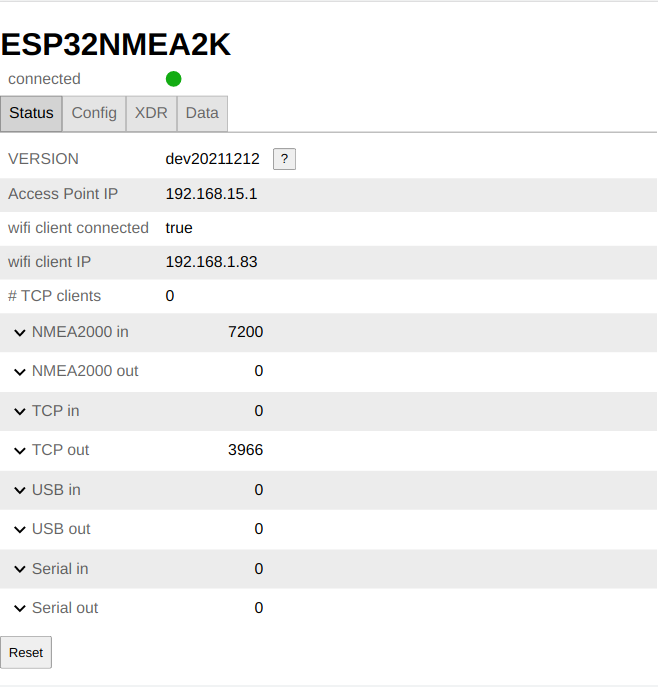
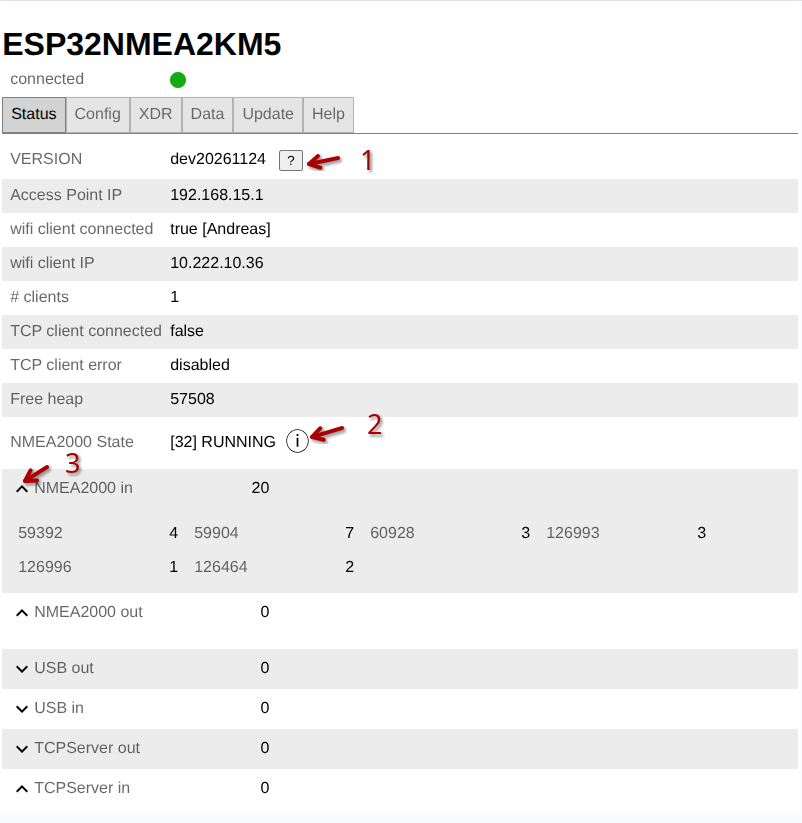
doc: UI description

diff --git a/doc/WebUi.md b/doc/WebUi.md
@@ -1,0 +1,134 @@
+# The Web User Interface
+
+## Connecting
+
+After flushing the device it will create a wifi access point when it starts up. 
+
+Connect to it (name: ESP32NMEA2K, password: esp32nmea2k).
+
+Afterwards use a Bonjour Browser( [Android](https://play.google.com/store/apps/details?id=de.wellenvogel.bonjourbrowser), [IOS](https://apps.apple.com/de/app/bonjour-search-for-http-web-in-wi-fi/id1097517829)), the address ESP32NMEA2k.local or the ip address 192.168.15.1 to connect with your browser.
+
+Once being connected you can change the system name (= name of the wifi network) and the IP and other parameters of the access point. As you can also change the passwords be careful to notice them as otherwise you would need to factory reset the device (very long button press until the led goes red).
+
+If you are able to connect to the USB port it will print out the important paremeters on startup.
+
+
+## Tabs
+When connecting to the device with a browser you will get an UI with various tabs to access the device functions.
+![Web1](status1.png)
+
+### Status
+
+The first visible tab will present you the status information for the device.
+The row with "connected" will show green if the UI is connected to the device and will turn red if not (any more).
+
+Beside some system and connection information you will see the send and receive message counters for all available interface.
+
+Each of them can be expanded (3) to provide you more details. For NMEA2000 channels the number of send and received PGNs is shown, for NMEA0183 channels the number for the various sentences.
+
+Clickibg on the question mark beside the version (1) will give you the list of converted NMEA0183 sentences and NMEA2000 PGNs.
+
+Clicking (2) will provide you a list of detecte NMEA2000 devices on your bus (including this device itself).
+You can expand the device information by clicking it.
+
+**Hint**: Populating this list can take some time after startup (> 1 minute) as we have to wait for some announcement messages from the devices.
+
+## Config
+
+![Web Config](web-config.png)
+
+Clicking the "Config" Tab will bring up the device configuration.
+
+You can expand each section using the small arrow buttons. Each of the input fields has a help information available to explain the meaning.
+
+After making changes you need to svae them and restart the device using "Save&Restart". If you have been connected to the device wifi it could happen that your device that runs the browser will just switch over to a different network. Therefore you will see a warning dialog about this fact.
+You can always check the connected status to verify that you are still attached to the right network.
+
+When klicking "Save&Restart" a couple of checks will be executed and an error will be shown if there are invalid settings.
+
+For storing the changes the system will ask you for an admin password. Initially this is set to 'esp32admin' and it can be changed in the "system" section. The admin password dialog will allow you to store the password in your browser. Please consider that the password will be stored in cleartext in your browser data - so only do this on some personal device.
+
+You can also perform import and export of your settings (as a json file), restting to factory settings - or just reloading from the device (this way reverting all changes before Save&Restart).
+
+In the "nmea2000" section you can set a preferred NMEA2000 node id. When thi is set to a value != -1 the device will try to claim this address. If another device on the bus already has this address the device will select a different one. The device address is shown at the status tab in the 
+
+`NMEA2220 state [32] Running`
+
+Will show a node address of 32 (the initial defualt).
+
+### Filters
+
+The gateway supports filters at all inputs and outputs and also at the converter (to control which data passes from NMEA0183 to NMEA2000 and reverse).
+
+#### NMEA0183
+For NMEA0183 the filter looks like 
+![NMEA0183 filter](nmea-filter.png)
+
+You can decice if you will allow AIS data (aison,aisoff) and if the provided filter should be a whitelist or blacklist.
+
+In the filter list you can provide:
+
+* a 3 character NMEA sentence identifier (like RMC)
+* a 2 character Talker Id (like GX)
+* a 5 character talker + sentence (like GPAPB)
+
+The are checked in this priority. Multiple entries can be combined with a ,.
+
+In the example the filter means: drop all messages from talker "GX", drop all "RMB" sentences and drop "GPAPB" records. All other messages will be pass (as aison is selected and the filter is a blacklist).
+
+Seasmart sentences (`$PCDIN`) are not handled by this filter but by PGN filters.
+
+#### PGN
+
+For NMEA2000 you can filter by PGNs.
+
+![PGN Filter](pgn-filter.png)
+
+You can provide a list of pgns seperated by `,` . And you can decide if the filter should be a blacklist or a whitelist.
+
+The example means: Drop all PGNs 129025.
+
+**Remark**: If you select "whitelist" for a filter and leave the list empty this means to drop all messages.
+
+### Seasmart
+
+IP based connections support sending and receiving [seasmart](https://open-boat-projects.org/de/seasmart/) data. This allows you to forward the complete NMEA2000 traffic via IP. The seasmart data just encapsulates the NMEA2000 messages in an ascii format without any conversion. Using seasmart you can connect any capable device directly to the NMEA2000 network via IP.
+The channels by default will always receive seasmart messages, sending has to be enabled explicitly. Additionally you have PGN filters at the channels so that you e.g. still can prevent receiving seasmart by an empty whitelist filter.
+
+### Actisense
+
+For the USB channel you can configure the mode to be either NMEA0183 or Actisense. If you select Actisense no log information is transmitted on this channel.
+
+## XDR
+
+On the XDR Tab you can configure the [XDR translations](XdrMappings.md).
+
+## Data
+
+On the data tab you will see current values of the received data **that has been passing the converter**.
+
+![Data](web-data.png)
+
+Normally you will see both received data and data that could be received (but still has not been).
+
+In the configuration you can limit the display to only received data.
+
+Beside the data that is directly known by the gateway and will be shown once it was passing the converter all XDR data will also been shown on this page.
+
+The values have a timeout (can be set at the "Config" tab, section "converter") so that they will disappear if not being received within this timeout. 
+
+Each data value will show a caption, the value, the source that received the latest value and a unit. All not directly know data values (like XDR data) are shown in their SI base units. 
+
+As the display is mainly intended for diagnosis purposes there is no sophisticated configuration for the display. You can easily use an app for more detailed and configurable display (like [AvNav](https://www.wellenvogel.net/software/avnav/newDoc/latest/en/index.html)).
+
+## Update
+
+On this tab you can [update the software](../Readme.md#update).
+
+## Help
+
+This Tab links to this documentation.
+
+## Other tabs
+
+User software that uses the gateway core can extend the UI by adding own tabs - see [Extending the software](../lib/exampletask/Readme.md).

diff --git a/Readme.md b/Readme.md
@@ -35,7 +35,7 @@ What is included
 * a NMEA0183 RS485 to NMEA2000 gateway
 * a Wifi (NMEA0183) to NMEA2000 gateway
 * an USB (NMEA0183) to NMEA2000 gateway
-* a WEB UI to configure the gateway and to show the data that has been received
+* a [WEB UI](doc/WebUi.md) to configure the gateway and to show the data that has been received
 * a USB Actisense to NMEA2000 gateway
 * a NMEA2000 to USB Actisense gateway
 * starting with 201311xx some [I2C Sensors](doc/Sensors.md)
@@ -66,8 +66,7 @@ They are devided into binaries for an initial flash (xxx-all.bin) and binaries f
 
 For other Hardware refer to the [online build service](doc/BuildService.md).
 
-Initial Flash
-*************
+### Initial Flash
 
 __Browser__
 
@@ -128,8 +127,7 @@ Some Anti Virus Software may (accidently) tag this as infected. In this case you
 *  Afterwards download [flashtool.pyz](../../raw/master/tools/flashtool.pyz) and run it with a double click.
 <span id="update"/>
 
-Update
-******
+### Update
 To update a device you can use the Web-UI (Update tab). In principle you could also update a device using the initial flash command (and an xxx-all.bin) firmware but this would erase all your configuration.
 So for normal operation just download a xxx-update.bin from the [release](../../releases) page and use the UI to install it.
 
@@ -143,14 +141,7 @@ Starting
 ---------
 After flushing a wifi access point is created. Connect to it (name: ESP32NMEA2K, password: esp32nmea2k).
 Afterwards use a Bonjour Browser, the address ESP32NMEA2k.local or the ip address 192.168.15.1 to connect with your browser.
-You will get a small UI to watch the status and make settings.
-If you want to connect to another wifi network, just enter the credentials in the wifi client tab and enable the wifi client.
-For all the potential inputs and outputs (NMEA2000, USB, TCP, RS485) you can set the configuration including NMEA0183 filtering.
-To store your changes you will be asked for an admin password. The initial one is esp32admin. You can change this password at the config/system tab (and even completely disable it).
-Be careful to notice the password - you can only recover from a lost password with a factory reset of the device (long press the led button until it goes blue->red->green).
-On the data page you will have a small dashboard for the currently received data.
-On the status page you can check the number of messages flowing in and out.
-To help you recover lost passwords the Wifi access point passowrd and the admin password will be output at the USB port when the device starts up. So by connecting a terminal program you can retrieve those passwords.
+You will get a [Web UI](doc/WebUi.md) to watch the status and make settings.
 
 Security Hints
 --------------
